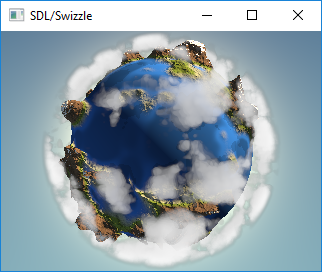
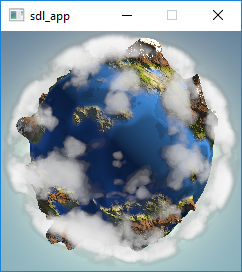
redo the benchmarks

diff --git a/docs/shaderbox/index.html b/docs/shaderbox/index.html
@@ -39,7 +39,7 @@ Compute</p></div></section>
 <section id="other_advantages"><h2>Other advantages</h2><table class="tableblock frame-all grid-all" style="width:100%"><colgroup><col style="width:50%"><col style="width:50%"></colgroup><tbody><tr><td class="tableblock halign-left valign-top"><div><div class="ulist"><ul><li><p>Debug / Decompile algorithms from</p><div class="ulist"><ul><li><p><a href="http://www.shadertoy.com">shadertoy.com</a></p></li><li><p><a href="http://www.glslsandbox.com">glslsandbox.com</a></p></li></ul></div></li><li><p>Unit Test shaders!</p></li><li><p>Quick prototype</p></li></ul></div></div></td><td class="tableblock halign-left valign-top"><div><div class="paragraph"><p><span class="image"><img src="img/motivation/shadertoy.png" alt="shadertoy"></span></p></div></div></td></tr></table></section>
 <section id="shading_languages"><h2>Shading Languages</h2></section>
 <section id="pixar_renderman_language" data-background-image="img/intro/renderman.jpg" data-state="RSL"><h2>Pixar RenderMan Language</h2>
-<div class="listingblock strech"><div class="content"><pre class="highlight"><code data-noescape class="javascript language-javascript">/*
+<div class="listingblock"><div class="content"><pre class="highlight"><code data-noescape class="javascript language-javascript">/*
  * red mesh                   red shaded mesh
  */
 surface basic() {             surface simple(color myOpacity = 1) {
@@ -67,15 +67,8 @@ void main(void)
     float4 ambient = { 0.1, 0.0, 0.0, 1.0 };
     return ambient + diffuse * saturate(dot(Light, Norm));
 }</code></pre></div></div></section>
-<section id="glsl_vs_hlsl_general"><h2>GLSL vs HLSL: general</h2><table class="tableblock frame-all grid-all" style="width:100%"><colgroup><col style="width:50%"><col style="width:50%"></colgroup><tbody><tr><td class="tableblock halign-left valign-top"><p class="tableblock">Procedural, step-centric (C like)</p></td><td class="tableblock halign-left valign-top"><p class="tableblock">Object oriented, data-centric (C++ like)</p></td></tr><tr><td class="tableblock halign-left valign-top"><p class="tableblock">Compilation done in driver</p></td><td class="tableblock halign-left valign-top"><p class="tableblock">Client side compilation</p></td></tr><tr><td class="tableblock halign-left valign-top"><p class="tableblock"><code>float</code>, <code>int</code>, <code>bool</code></p></td><td class="tableblock halign-left valign-top"><p class="tableblock"><code>float</code>, <code>int</code>, <code>bool</code>, <code>uint</code>, <code>double</code></p></td></tr></table></section>
-<section id="glsl_vs_hlsl_types"><h2>GLSL vs HLSL: types</h2><table class="tableblock frame-all grid-all" style="width:100%"><colgroup><col style="width:50%"><col style="width:50%"></colgroup><tbody><tr><td class="tableblock halign-left valign-top"><p class="tableblock">Vector type: <code>vec2</code>, <code>vec3</code>, <code>vec4</code></p></td><td class="tableblock halign-left valign-top"><p class="tableblock">Vector type: <code>float2</code>, <code>float3</code>, <code>float4</code></p></td></tr><tr><td class="tableblock halign-left valign-top"><p class="tableblock">Matrix type: <code>mat2</code>, <code>mat3</code>, <code>mat4</code></p></td><td class="tableblock halign-left valign-top"><p class="tableblock">Matrix type: <code>float2x2</code>, <code>float3x3</code>, <code>float4x4</code></p></td></tr><tr><td class="tableblock halign-center valign-top" colspan="2"><p class="tableblock">&#8230;&#8203;textures, samplers, precision modifiers etc</p></td></tr></table></section>
-<section id="shading_languages_future"><h2>Shading Languages Future</h2><div class="paragraph"><p>Basically C++ (usually via LLVM)</p></div>
-<div class="ulist step"><ul><li class="fragment"><p>Metal Shading Language (C++14, Apple)</p><div class="ulist"><ul><li><p>only on iOS devices</p></li></ul></div></li><li class="fragment"><p>CUDA Heterogeneous Computing (C++11, NVidia)</p><div class="ulist"><ul><li><p>only for computing, not graphics</p></li></ul></div></li><li class="fragment"><p>HLSL 6.x (C++98&#8217;ish, Microsoft)</p><div class="ulist"><ul><li><p>not released yet</p></li></ul></div></li></ul></div></section>
-<section><div class="paragraph"><p>Let&#8217;s see how C++ can help out, NOW!</p></div></section>
-<section id="the_plan" data-state="plan"><h2>The Plan</h2><div class="ulist"><ul><li class="fragment"><p><span class="image"><img src="img/icon/browser.svg" alt="cpp" width="64" height="64"></span> Pick a shading language and twist C++ to accept it as source code!</p></li><li class="fragment"><p><span class="image"><img src="img/icon/management.svg" alt="bonus" width="64" height="64"></span> BONUS: use the preprocessor for transcription back to the original language(s)!</p></li></ul></div></section>
-<section id="the_plan_cont"><h2>The Plan (cont.)</h2><div class="ulist"><ul><li class="fragment"><p>obligatory preprocessor layer</p></li><li class="fragment"><p>vector (linear algebra) types</p><div class="ulist"><ul><li><p>swizzle support</p></li></ul></div></li><li class="fragment"><p>matrix types</p></li><li class="fragment"><p>operators</p></li><li class="fragment"><p>"standard library" utility/math functions</p></li></ul></div></section>
-<section id="place_your_bets"><h2>Place Your Bets</h2><div class="paragraph"><p>We will chose <strong>GLSL</strong> as it&#8217;s used on <em>desktop</em>, <em>web</em> and <em>mobile</em></p></div>
-<div class="admonitionblock warning"><table><tr><td class="icon"><i class="fa fa-warning" title="Warning"></i></td><td class="content">only a subset of it - concentrate on procedural graphics thus minimize/eliminate inputs (textures, vertex data, etc)</td></tr></table></div></section>
+<section id="glsl_vs_hlsl_general"><h2>GLSL vs HLSL: General</h2><table class="tableblock frame-all grid-all" style="width:100%"><colgroup><col style="width:50%"><col style="width:50%"></colgroup><tbody><tr><td class="tableblock halign-left valign-top"><p class="tableblock">Procedural, step-centric (C like)</p></td><td class="tableblock halign-left valign-top"><p class="tableblock">Object oriented, data-centric (C++ like)</p></td></tr><tr><td class="tableblock halign-left valign-top"><p class="tableblock">Compilation done in driver</p></td><td class="tableblock halign-left valign-top"><p class="tableblock">Client side compilation</p></td></tr><tr><td class="tableblock halign-left valign-top"><p class="tableblock"><code>float</code>, <code>int</code>, <code>bool</code></p></td><td class="tableblock halign-left valign-top"><p class="tableblock"><code>float</code>, <code>int</code>, <code>bool</code>, <code>uint</code>, <code>double</code></p></td></tr></table></section>
+<section id="glsl_vs_hlsl_types"><h2>GLSL vs HLSL: Types</h2><table class="tableblock frame-all grid-all" style="width:100%"><colgroup><col style="width:50%"><col style="width:50%"></colgroup><tbody><tr><td class="tableblock halign-left valign-top"><p class="tableblock">Vector type: <code>vec2</code>, <code>vec3</code>, <code>vec4</code></p></td><td class="tableblock halign-left valign-top"><p class="tableblock">Vector type: <code>float2</code>, <code>float3</code>, <code>float4</code></p></td></tr><tr><td class="tableblock halign-left valign-top"><p class="tableblock">Matrix type: <code>mat2</code>, <code>mat3</code>, <code>mat4</code></p></td><td class="tableblock halign-left valign-top"><p class="tableblock">Matrix type: <code>float2x2</code>, <code>float3x3</code>, <code>float4x4</code></p></td></tr><tr><td class="tableblock halign-center valign-top" colspan="2"><p class="tableblock">&#8230;&#8203;textures, samplers, precision modifiers etc</p></td></tr></table></section>
 <section id="languages_declarations"><h2>Languages: Declarations</h2><table class="tableblock frame-all grid-all" style="width:100%"><colgroup><col style="width:33.3333%"><col style="width:33.3333%"><col style="width:33.3334%"></colgroup><tbody><tr><td class="tableblock halign-left valign-top"><p class="tableblock">GLSL</p></td><td class="tableblock halign-left valign-top"><p class="tableblock">HLSL</p></td><td class="tableblock halign-left valign-top"><p class="tableblock">C++</p></td></tr><tr><td class="tableblock halign-center valign-top" colspan="3"><p class="tableblock">&#160;&#160;&#160;&#160;&#160;&#160;&#160;&#160;&#160;&#160;&#160;&#160;&#160;&#160;&#160;&#160;&#160;&#160;&#160;&#160;&#160;&#160;&#160;&#160;&#160;&#160;&#160;
 C-style types and arrays</p></td></tr><tr><td class="tableblock halign-center valign-top" colspan="3"><p class="tableblock">&#160;&#160;&#160;&#160;&#160;&#160;&#160;&#160;&#160;&#160;&#160;&#160;&#160;&#160;&#160;&#160;&#160;&#160;&#160;&#160;&#160;&#160;&#160;&#160;&#160;&#160;&#160;&#160;&#160;&#160;&#160;&#160;&#160;&#160;
 C-style <code>struct</code></p></td></tr><tr><td class="tableblock halign-left valign-top"><p class="tableblock"><code>T name = T ( &#8230;&#8203; )</code></p></td><td class="tableblock halign-left valign-top"><p class="tableblock"><code>T name = { &#8230;&#8203; }</code></p></td><td class="tableblock halign-left valign-top"><p class="tableblock">both (preproc abstraction)</p></td></tr></table></section>
@@ -86,9 +79,8 @@ vec2 texcoord1, texcoord2;
 vec3 position;
 vec4 myRGBA;
 ivec2 textureLookup;
-bvec3 less;
-
-// matrices are floating point only
+bvec3 less;</code></pre></div></div>
+<div class="listingblock"><div class="content"><pre class="highlight"><code data-noescape class="cpp language-cpp">// matrices are floating point only
 mat2 mat2D;
 mat3 optMatrix;
 mat4 view, projection;</code></pre></div></div></section>
@@ -121,7 +113,13 @@ u.y = dot(v, m[1]);
 u.z = dot(v, m[2]);
 /* dot(a,b) is the inner product of a and b */</code></pre></div></div></div></td></tr></table></section>
 <section id="standard_library" data-state="STL"><h2>"Standard Library"</h2><table class="tableblock frame-all grid-all" style="width:100%"><colgroup><col style="width:50%"><col style="width:50%"></colgroup><tbody><tr><td class="tableblock halign-left valign-top"><p class="tableblock">Math</p></td><td class="tableblock halign-left valign-top"><p class="tableblock"><code>sin</code>, <code>cos</code>, <code>radians</code>, <code>pow</code>, <code>exp</code>, etc</p></td></tr><tr><td class="tableblock halign-left valign-top"><p class="tableblock">Common</p></td><td class="tableblock halign-left valign-top"><p class="tableblock"><code>abs</code>, <code>sign</code>, <code>floor</code>, <code>mod</code>, <code>min</code>, etc</p></td></tr><tr><td class="tableblock halign-left valign-top"><p class="tableblock">Utility</p></td><td class="tableblock halign-left valign-top"><p class="tableblock"><code>mix</code>, <code>step</code>, <code>smoothstep</code>, etc</p></td></tr><tr><td class="tableblock halign-left valign-top"><p class="tableblock">Geometry</p></td><td class="tableblock halign-left valign-top"><p class="tableblock"><code>length</code>, <code>dot</code>, <code>cross</code>, <code>distance</code>, etc</p></td></tr><tr><td class="tableblock halign-left valign-top" colspan="2"><p class="tableblock">Specific texture and image sampling &#8230;&#8203;</p></td></tr></table></section>
-<section><div class="paragraph"><p>Recreating all this in C++ &#8230;&#8203;</p></div></section>
+<section id="shading_languages_future"><h2>Shading Languages Future</h2><div class="paragraph"><p>Basically C++ (usually via LLVM)</p></div>
+<div class="ulist step"><ul><li class="fragment"><p>Metal Shading Language (C++14, Apple)</p><div class="ulist"><ul><li><p>only on iOS devices</p></li></ul></div></li><li class="fragment"><p>CUDA Heterogeneous Computing (C++11, NVidia)</p><div class="ulist"><ul><li><p>only for computing, not graphics</p></li></ul></div></li><li class="fragment"><p>HLSL 6.x (C++98&#8217;ish, Microsoft)</p><div class="ulist"><ul><li><p>not released yet</p></li></ul></div></li></ul></div></section>
+<section><div class="paragraph"><p>Let&#8217;s see how C++ can help out, NOW!</p></div></section>
+<section id="the_plan" data-state="plan"><h2>The Plan</h2><div class="ulist"><ul><li class="fragment"><p><span class="image"><img src="img/icon/browser.svg" alt="cpp" width="64" height="64"></span> Pick a shading language and twist C++ to accept it as source code!</p></li><li class="fragment"><p><span class="image"><img src="img/icon/management.svg" alt="bonus" width="64" height="64"></span> BONUS: use the preprocessor for transcription back to the original language(s)!</p></li></ul></div></section>
+<section id="the_plan_cont"><h2>The Plan (cont.)</h2><div class="ulist"><ul><li class="fragment"><p>obligatory preprocessor layer</p></li><li class="fragment"><p>vector (linear algebra) types</p><div class="ulist"><ul><li><p>swizzle support</p></li></ul></div></li><li class="fragment"><p>matrix types</p></li><li class="fragment"><p>operators</p></li><li class="fragment"><p>"standard library" utility/math functions</p></li></ul></div></section>
+<section id="place_your_bets"><h2>Place Your Bets</h2><div class="paragraph"><p>We will chose <strong>GLSL</strong> as it&#8217;s used on <em>desktop</em>, <em>web</em> and <em>mobile</em></p></div>
+<div class="admonitionblock warning"><table><tr><td class="icon"><i class="fa fa-warning" title="Warning"></i></td><td class="content">only a subset of it - concentrate on procedural graphics thus minimize/eliminate inputs (textures, vertex data, etc)</td></tr></table></div></section>
 <section id="design_of_code_vector_code" data-state="no_list_decor"><h2>Design of <code>vector&lt;&gt;</code></h2><div class="ulist"><ul><li class="fragment"><p></p><div class="listingblock"><div class="content"><pre class="highlight"><code data-noescape class="cpp language-cpp">template&lt;typename T, size_t N&gt;
 struct vector :
     public vector_base&lt;T, N&gt;
@@ -159,7 +157,7 @@ struct static_for
 struct static_for&lt;N, N&gt;
 {
     template&lt;class Func&gt;
-    constexpr void operator ()(Func&amp;&amp;) { /* empty */ }
+    constexpr void operator ()(Func&amp;&amp;) { /* terminate */ }
 };</code></pre></div></div></li></ul></div></section>
 <section id="code_vector_code_ctor_advanced"><h2><code>vector&lt;&gt;</code> ctor - advanced</h2><div class="listingblock"><div class="content"><pre class="highlight"><code data-noescape class="cpp language-cpp">template&lt;typename A0, typename... Args,</code></pre></div></div>
 <div class="listingblock"><div class="content"><pre class="highlight"><code data-noescape class="cpp language-cpp">    class = typename std::enable_if&lt;
@@ -168,34 +166,35 @@ struct static_for&lt;N, N&gt;
     &gt;::type&gt;</code></pre></div></div>
 <div class="listingblock"><div class="content"><pre class="highlight"><code data-noescape class="cpp language-cpp">explicit vector(A0&amp;&amp; a0, Args&amp;&amp;... args)
 {
-    iterate_construct&lt;0, num_components&gt;(
-        std::forward&lt;A0&gt;(a0), std::forward&lt;Args&gt;(args)...
+    static_recurse&lt;0&gt;(
+        std::forward&lt;A0&gt;(a0),
+        std::forward&lt;Args&gt;(args)...
     );
 }</code></pre></div></div></section>
-<section id="code_vector_code_ctor_advanced_2"><h2><code>vector&lt;&gt;</code> ctor - advanced (2)</h2><div class="listingblock"><div class="content"><pre class="highlight"><code data-noescape class="cpp language-cpp">template&lt;size_t I, size_t IMax, typename Arg0, typename... Args&gt;
-void iterate_construct(Arg0&amp;&amp; a0, Args&amp;&amp;... args)
+<section id="code_vector_code_ctor_advanced_2"><h2><code>vector&lt;&gt;</code> ctor - advanced (2)</h2><div class="listingblock"><div class="content"><pre class="highlight"><code data-noescape class="cpp language-cpp">template&lt;size_t I, typename Arg0, typename... Args&gt;
+void static_recurse(Arg0&amp;&amp; a0, Args&amp;&amp;... args)
 {
-    if constexpr (I &lt; IMax) {
-        construct_at_index(I, std::forward&lt;Arg0&gt;(a0));
-        iterate_construct&lt;I + get_size&lt;Arg0&gt;(), IMax&gt;(
-            std::forward&lt;Args&gt;(args)...);
-    }
+    construct_at_index&lt;I&gt;(std::forward&lt;Arg0&gt;(a0));
+
+    static_recurse&lt;I + detail::get_size&lt;Arg0&gt;()&gt;(
+        std::forward&lt;Args&gt;(args)...
+    );
 }</code></pre></div></div>
-<div class="listingblock"><div class="content"><pre class="highlight"><code data-noescape class="cpp language-cpp">template&lt;size_t I, size_t IMax&gt;
-void iterate_construct()
+<div class="listingblock"><div class="content"><pre class="highlight"><code data-noescape class="cpp language-cpp">template&lt;size_t I&gt;
+void static_recurse()
+{ /* terminate */ }</code></pre></div></div></section>
+<section id="code_vector_code_ctor_advanced_3"><h2><code>vector&lt;&gt;</code> ctor - advanced (3)</h2><div class="listingblock"><div class="content"><pre class="highlight"><code data-noescape class="cpp language-cpp">template&lt;size_t i&gt;
+void construct_at_index(scalar_type arg)
 {
-}</code></pre></div></div></section>
-<section id="code_vector_code_ctor_advanced_3"><h2><code>vector&lt;&gt;</code> ctor - advanced (3)</h2><div class="listingblock"><div class="content"><pre class="highlight"><code data-noescape class="cpp language-cpp">void construct_at_index(size_t&amp; i, scalar_type arg)
-{
-    data[i++] = arg;
+    data[i] = arg;
 }</code></pre></div></div>
 <div class="listingblock"><div class="content"><pre class="highlight"><code data-noescape class="cpp language-cpp">template&lt;typename Other, size_t Other_N&gt;
 void construct_at_index(size_t&amp; i, vector&lt;Other, Other_N&gt;&amp;&amp; arg)
 {
-    constexpr auto count = std::min(N, Other_N);
+    constexpr auto count = std::min(i + Other_N, num_components);
 
-    detail::static_for&lt;0, count&gt;()([&amp;](size_t j) {
-        data[i++] = arg.data[j];
+    static_for&lt;i, count&gt;()([&amp;](size_t j) {
+        data[j] = arg.data[j - i];
     });
 }</code></pre></div></div></section>
 <section id="code_vector_code_ctor_in_action"><h2><code>vector&lt;&gt;</code> ctor in action</h2><div class="listingblock"><div class="content"><pre class="highlight"><code data-noescape class="cpp language-cpp">using vec2 = vector&lt;int, 2&gt;;
@@ -337,9 +336,9 @@ struct vector_base&lt;T, 4&gt;
 <div class="listingblock"><div class="content"><pre class="highlight"><code data-noescape class="cpp language-cpp">template&lt;class vector_type, class T, size_t N, size_t... indices&gt;
 struct swizzler
 {
-    T data[N]; // can differ from vector_type
-...
-};</code></pre></div></div></section>
+    T data[N];
+
+(etc)</code></pre></div></div></section>
 <section id="swizzle_for_code_vector_t_3_code"><h2>Swizzle for <code>vector&lt;T, 3&gt;</code></h2><div class="listingblock"><div class="content"><pre class="highlight"><code data-noescape class="cpp language-cpp">union
 {
     T data[3];
@@ -464,7 +463,7 @@ float n = dot(v.xzx, v.zyx);</code></pre></div></div>
 <div class="listingblock"><div class="content"><pre class="highlight"><code data-noescape class="asm language-asm">&gt; 'dot': no matching overloaded function found
 &gt; could not deduce template argument</code></pre></div></div></section>
 <section><div class="admonitionblock note"><table><tr><td class="icon"><i class="fa fa-info-circle" title="Note"></i></td><td class="content">Type deduction does not consider implicit conversions!</td></tr></table></div>
-<div class="ulist"><div class="title">Possible fixes</div><ul><li class="fragment"><p></p><div class="listingblock"><div class="content"><pre class="highlight"><code data-noescape class="cpp language-cpp">float n = dot&lt;float, 0, 1, 2&gt;(v.xzx, v.zyx);</code></pre></div></div></li><li class="fragment"><p>create by hand all scalar/size combinations :(</p></li><li class="fragment"><p>duplicate functions for swizzler proxy as well :|</p></li><li class="fragment"><p>SFINAE tricks</p></li></ul></div></section>
+<div class="ulist"><ul><li class="fragment"><p>Possible fixes:</p></li><li class="fragment"><p></p><div class="listingblock"><div class="content"><pre class="highlight"><code data-noescape class="cpp language-cpp">float n = dot&lt;float, 0, 1, 2&gt;(v.xzx, v.zyx);</code></pre></div></div></li><li class="fragment"><p>create by hand all scalar/size combinations :(</p></li><li class="fragment"><p>SFINAE tricks</p></li></ul></div></section>
 <section id="a_better_fix" data-state="no_list_decor"><h2>A better fix</h2><div class="admonitionblock note"><table><tr><td class="icon"><i class="fa fa-info-circle" title="Note"></i></td><td class="content">we place the functions in a non-deduced context: inside <code>vector&lt;&gt;</code> itself!</td></tr></table></div>
 <div class="ulist"><ul><li class="fragment"><p></p><div class="listingblock"><div class="content"><pre class="highlight"><code data-noescape class="cpp language-cpp">template&lt;typename T, size_t... Ns&gt;
 struct vector
@@ -475,15 +474,15 @@ struct vector
         /* inline friend found via ADL */
     }
     ...</code></pre></div></div></li></ul></div></section>
-<section id="enough"><h2>Enough?</h2><div class="admonitionblock warning"><table><tr><td class="icon"><i class="fa fa-warning" title="Warning"></i></td><td class="content">No!</td></tr></table></div>
-<div class="ulist"><ul><li class="fragment"><p></p><div class="listingblock"><div class="title">lots of function need to work with scalars only</div><div class="content"><pre class="highlight"><code data-noescape class="cpp language-cpp">float opS(float d1, float d2)
+<section id="are_we_done" data-state="no_list_decor"><h2>Are we done?</h2><div class="admonitionblock warning"><table><tr><td class="icon"><i class="fa fa-warning" title="Warning"></i></td><td class="content">No!</td></tr></table></div>
+<div class="ulist"><ul><li class="fragment"><p></p><div class="listingblock"><div class="title">Lots of shader code uses scalar types only:</div><div class="content"><pre class="highlight"><code data-noescape class="cpp language-cpp">float opS(float d1, float d2)
 {
-    return max(-d2, d1);
-}</code></pre></div></div></li><li class="fragment"><p></p><div class="listingblock"><div class="title">ambiguity with literals</div><div class="content"><pre class="highlight"><code data-noescape class="cpp language-cpp">smoothstep(0, 1, v.xyz);
+    return max(-d2, d1); // defined only for vectors!
+}</code></pre></div></div></li><li class="fragment"><p></p><div class="listingblock"><div class="title">Ambiguity with literals:</div><div class="content"><pre class="highlight"><code data-noescape class="cpp language-cpp">smoothstep(0, 1, v.xyz);
 
 // could be `int`, `float` or `double`</code></pre></div></div></li></ul></div></section>
 <section id="solution" data-state="no_list_decor"><h2>Solution</h2><div class="paragraph"><p>Inspect the list of function args and deduct a vector type using <code>std::common_type</code> techniques</p></div>
-<div class="ulist"><ul><li class="fragment"><p></p><div class="listingblock"><div class="title">first: need to make <code>vec1</code> convert to/from scalars</div><div class="content"><pre class="highlight"><code data-noescape class="cpp language-cpp">std::is_convertible&lt;vec1, float&gt;::value == true</code></pre></div></div></li><li class="fragment"><p></p><div class="listingblock"><div class="title">then: write the custom traits</div><div class="content"><pre class="highlight"><code data-noescape class="cpp language-cpp">promote_to_vec&lt; float                &gt;::type == vec1</code></pre></div></div></li><li class="fragment"><p></p><div class="listingblock"><div class="content"><pre class="highlight"><code data-noescape class="cpp language-cpp">promote_to_vec&lt; vec3                 &gt;::type == vec3
+<div class="ulist"><ul><li class="fragment"><p></p><div class="listingblock"><div class="title">First: need to make <code>vec1</code> convert to/from scalars</div><div class="content"><pre class="highlight"><code data-noescape class="cpp language-cpp">std::is_convertible&lt;vec1, float&gt;::value == true</code></pre></div></div></li><li class="fragment"><p></p><div class="listingblock"><div class="title">Then: provide custom type traits</div><div class="content"><pre class="highlight"><code data-noescape class="cpp language-cpp">promote_to_vec&lt; float                &gt;::type == vec1</code></pre></div></div></li><li class="fragment"><p></p><div class="listingblock"><div class="content"><pre class="highlight"><code data-noescape class="cpp language-cpp">promote_to_vec&lt; vec3                 &gt;::type == vec3
 promote_to_vec&lt; decltype(vec3().xyz) &gt;::type == vec3</code></pre></div></div></li><li class="fragment"><p></p><div class="listingblock"><div class="content"><pre class="highlight"><code data-noescape class="cpp language-cpp">promote_to_vec&lt; vec3, float          &gt;::type == vec3
 promote_to_vec&lt; vec3, float, double  &gt;::type == vec3</code></pre></div></div></li></ul></div></section>
 <section id="solution_cont"><h2>Solution (cont.)</h2><div class="listingblock"><div class="title">Insted of <code>inline</code> functions are <code>static</code></div><div class="content"><pre class="highlight"><code data-noescape class="cpp language-cpp">template&lt;template&lt;class, size_t...&gt; class vector, class T, size_t...
@@ -501,6 +500,15 @@ inline auto func(Args&amp;&amp;... args) -&gt;
         promote_to_vec&lt;Args...&gt;::type::
         func(std::forward&lt;Args&gt;(args)...);
 }</code></pre></div></div></section>
+<section id="solution_demo"><h2>Solution (demo)</h2><div class="listingblock"><div class="content"><pre class="highlight"><code data-noescape class="cpp language-cpp">return max(-d2, d1);
+//      ||
+//      ||
+//      \/
+    promove_to_vec&lt;float, float&gt;
+//      ||
+//      ||
+//      \/
+return vector&lt;float, 0&gt;::max(-d2, d1);</code></pre></div></div></section>
 <section id="the_code_matrix_code_datatype"><h2>the <code>matrix&lt;&gt;</code> datatype</h2><div class="paragraph"><p>Now that we have <code>vector&lt;&gt;</code> a matrix is more straightforward</p></div>
 <div class="admonitionblock note"><table><tr><td class="icon"><i class="fa fa-info-circle" title="Note"></i></td><td class="content">two dimensional &#8594; introduce helper type for the indices</td></tr></table></div>
 <div class="listingblock"><div class="content"><pre class="highlight"><code data-noescape class="cpp language-cpp">template&lt;size_t...&gt;
@@ -535,8 +543,9 @@ explicit matrix(Args&amp;&amp;... args)
         detail::decay(std::forward&lt;Args&gt;(args))), ...);
 }</code></pre></div></div></section>
 <section id="the_code_matrix_code_ops_and_funcs"><h2>the <code>matrix&lt;&gt;</code> ops and funcs</h2><div class="ulist"><ul><li><p>can recycle the same binary operators as vector if written generic</p></li><li><p>except <em>multiplication</em></p><div class="ulist"><ul><li><p>which needs to be handled differently</p></li><li><p>for all variations of <code>matrix</code>, <code>row_type</code>, <code>column_type</code></p></li></ul></div></li></ul></div></section>
-<section id="prior_art"><h2>Prior Art</h2><div class="admonitionblock tip"><table><tr><td class="icon"><i class="fa fa-lightbulb-o" title="Tip"></i></td><td class="content">not invented here :)</td></tr></table></div>
-<div class="ulist"><ul><li class="fragment"><p>clang vector extensions</p><div class="ulist"><ul><li><p></p><div class="listingblock"><div class="content"><pre class="highlight"><code data-noescape class="cpp language-cpp">typedef float vec3 __attribute__((ext_vector_type(3)));</code></pre></div></div></li><li><p>very limited in initializations, but support full swizzling</p></li></ul></div></li><li class="fragment"><p>various libraries</p><div class="ulist"><ul><li><p>GLM - <code>.xyz()</code> style only</p></li><li><p>CXXSwizzle - full spec but slow debug</p></li></ul></div></li></ul></div></section>
+<section id="prior_art"><h2>Prior Art</h2><div class="admonitionblock tip"><table><tr><td class="icon"><i class="fa fa-lightbulb-o" title="Tip"></i></td><td class="content">not invented here :)</td></tr></table></div></section>
+<section><div class="ulist"><ul><li><p>clang vector extensions</p><div class="ulist"><ul><li><p></p><div class="listingblock"><div class="content"><pre class="highlight"><code data-noescape class="cpp language-cpp">typedef float vec3 __attribute__((ext_vector_type(3)));</code></pre></div></div></li><li><p>PRO: supports full swizzling</p></li><li><p>CON: very limited in initializations</p></li></ul></div></li></ul></div></section>
+<section><div class="ulist"><ul><li><p>3rd party libraries</p><div class="ulist"><ul><li><p>GLM</p><div class="ulist"><ul><li><p><code>.xyz()</code> style only</p></li><li><p>horrible preprocessor heavy implementation</p></li></ul></div></li><li><p>CXXSwizzle</p><div class="ulist"><ul><li><p>full spec</p></li><li><p>slow debug</p></li></ul></div></li></ul></div></li></ul></div></section>
 <section id="results"><h2>Results</h2></section>
 <section><div class="paragraph"><p>&#8230;&#8203;but first: Crash Course into Procedural Graphics!</p></div>
 <div class="admonitionblock note"><table><tr><td class="icon"><i class="fa fa-info-circle" title="Note"></i></td><td class="content">Courtesy of @ReinderNijhoff <a href="https://www.shadertoy.com/view/4dSfRc" class="bare">https://www.shadertoy.com/view/4dSfRc</a></td></tr></table></div></section>
@@ -550,14 +559,16 @@ explicit matrix(Args&amp;&amp;... args)
 <section id="raymarch_tutorial_step_8" data-background-image="img/tutorial/step_8.png"></section>
 <section id="showcase"><h2>Showcase</h2></section>
 <section id="gpu_desktop_pc"><h2>GPU / desktop PC</h2><div class="ulist"><ul><li><p><a href="https://www.shadertoy.com/user/valentingalea" class="bare">https://www.shadertoy.com/user/valentingalea</a></p></li><li><p>Nvidia GeForce 1060</p></li><li><p>1080p</p></li></ul></div></section>
-<section id="cpu_desktop_pc"><h2>CPU / desktop PC</h2><div class="ulist"><ul><li><p>minimal draw app with <a href="https://www.libsdl.org/" class="bare">https://www.libsdl.org/</a></p></li><li><p>AMD FX 8350 8-core 4.00 GHz</p></li><li><p>Microsoft Visual C++ 15.7.6</p><div class="ulist"><ul><li><p><code>/O2 /Ob2 /fp:fast /fp:except- /arch:SSE2 /openmp</code></p></li></ul></div></li><li><p>320 x 240 px</p></li></ul></div></section>
-<section id="cpu_mobile_phone"><h2>CPU / mobile phone</h2><div class="ulist"><ul><li><p>C4Droid app (<a href="https://play.google.com/store/apps/details?id=com.n0n3m4.droidc" class="bare">https://play.google.com/store/apps/details?id=com.n0n3m4.droidc</a>)</p></li><li><p>Samsung Galaxy S7</p></li><li><p>GCC 7.2.0</p><div class="ulist"><ul><li><p><code>-Ofast -march=native -funroll-loops</code></p></li></ul></div></li><li><p>100 x 100 px</p></li></ul></div></section>
+<section id="cpu_desktop_pc"><h2>CPU / desktop PC</h2><div class="ulist"><ul><li><p>minimal draw app with <a href="https://www.libsdl.org/" class="bare">https://www.libsdl.org/</a></p></li><li><p>AMD FX 8350 8-core 4.00 GHz</p></li><li><p>Microsoft Visual C++ 2017</p><div class="ulist"><ul><li><p><code>/O2 /Ob2 /fp:fast /fp:except-</code></p></li></ul></div></li></ul></div></section>
+<section id="cpu_mobile_phone"><h2>CPU / mobile phone</h2><div class="ulist"><ul><li><p>C4Droid app (<a href="https://play.google.com/store/apps/details?id=com.n0n3m4.droidc" class="bare">https://play.google.com/store/apps/details?id=com.n0n3m4.droidc</a>)</p></li><li><p>Samsung Galaxy S7</p></li><li><p>GCC 8.0</p><div class="ulist"><ul><li><p><code>-Ofast -march=native -funroll-loops</code></p></li></ul></div></li></ul></div></section>
+<section id="hello_world_cpu"><h2>Hello World (CPU)</h2><div class="literalblock"><div class="content"><pre>TODO: redo @work</pre></div></div>
+<table class="tableblock frame-all grid-all" style="width:100%"><colgroup><col style="width:33.3333%"><col style="width:33.3333%"><col style="width:33.3334%"></colgroup><tbody><tr><td class="tableblock halign-left valign-top"></td><td class="tableblock halign-left valign-top"><p class="tableblock"><span class="image"><img src="img/showcase/pc_default.png" alt="Default(PC)"></span></p></td><td class="tableblock halign-left valign-top"><p class="tableblock"><span class="image"><img src="img/showcase/droid_default.jpg" alt="Default(Droid)"></span></p></td></tr><tr><td class="tableblock halign-left valign-top"><p class="tableblock">240x240 px</p></td><td class="tableblock halign-left valign-top"><p class="tableblock">85.62 FPS</p></td><td class="tableblock halign-left valign-top"><p class="tableblock">166.77</p></td></tr><tr><td class="tableblock halign-left valign-top"><p class="tableblock">120x120 px</p></td><td class="tableblock halign-left valign-top"><p class="tableblock">100.27 FPS</p></td><td class="tableblock halign-left valign-top"><p class="tableblock">468.49</p></td></tr></table></section>
 <section id="planet_gpu" data-background-video="vid/planet.mp4" data-background-video-loop data-background-video-muted></section>
-<section id="planet_cpu"><h2>Planet (CPU)</h2><table class="tableblock frame-all grid-all" style="width:100%"><colgroup><col style="width:50%"><col style="width:50%"></colgroup><tbody><tr><td class="tableblock halign-left valign-top"><p class="tableblock"><span class="image"><img src="img/showcase/pc_planet.png" alt="Planet(PC)"></span></p></td><td class="tableblock halign-left valign-top"><p class="tableblock"><span class="image"><img src="img/showcase/droid_planet.jpg" alt="Planet(Droid)" width="300" height="300"></span></p></td></tr><tr><td class="tableblock halign-left valign-top"><p class="tableblock">Desktop PC</p></td><td class="tableblock halign-left valign-top"><p class="tableblock">Mobile Phone</p></td></tr><tr><td class="tableblock halign-left valign-top"><p class="tableblock">.1 FPS :(</p></td><td class="tableblock halign-left valign-top"><p class="tableblock">5 FPS</p></td></tr></table></section>
+<section id="planet_cpu"><h2>Planet (CPU)</h2><table class="tableblock frame-all grid-all" style="width:100%"><colgroup><col style="width:33.3333%"><col style="width:33.3333%"><col style="width:33.3334%"></colgroup><tbody><tr><td class="tableblock halign-left valign-top"></td><td class="tableblock halign-left valign-top"><p class="tableblock"><span class="image"><img src="img/showcase/pc_planet.png" alt="Planet(PC)"></span></p></td><td class="tableblock halign-left valign-top"><p class="tableblock"><span class="image"><img src="img/showcase/droid_planet.jpg" alt="Planet(Droid)"></span></p></td></tr><tr><td class="tableblock halign-left valign-top"><p class="tableblock">240x240 px</p></td><td class="tableblock halign-left valign-top"><p class="tableblock">1.92 FPS</p></td><td class="tableblock halign-left valign-top"><p class="tableblock">0.83 FPS</p></td></tr><tr><td class="tableblock halign-left valign-top"><p class="tableblock">120x120 px</p></td><td class="tableblock halign-left valign-top"><p class="tableblock">7.30 FPS</p></td><td class="tableblock halign-left valign-top"><p class="tableblock">3.34 FPS</p></td></tr></table></section>
 <section id="clouds_gpu" data-background-video="vid/clouds.mp4" data-background-video-loop data-background-video-muted></section>
-<section id="clouds_cpu"><h2>Clouds (CPU)</h2><table class="tableblock frame-all grid-all" style="width:100%"><colgroup><col style="width:50%"><col style="width:50%"></colgroup><tbody><tr><td class="tableblock halign-left valign-top"><p class="tableblock"><span class="image"><img src="img/showcase/pc_clouds.png" alt="Clouds(PC)"></span></p></td><td class="tableblock halign-left valign-top"><p class="tableblock"><span class="image"><img src="img/showcase/droid_clouds.jpg" alt="Clouds(Droid)" width="300" height="300"></span></p></td></tr><tr><td class="tableblock halign-left valign-top"><p class="tableblock">Desktop PC</p></td><td class="tableblock halign-left valign-top"><p class="tableblock">Mobile Phone</p></td></tr><tr><td class="tableblock halign-left valign-top"><p class="tableblock">1 FPS</p></td><td class="tableblock halign-left valign-top"><p class="tableblock">8 FPS</p></td></tr></table></section>
+<section id="clouds_cpu"><h2>Clouds (CPU)</h2><table class="tableblock frame-all grid-all" style="width:100%"><colgroup><col style="width:33.3333%"><col style="width:33.3333%"><col style="width:33.3334%"></colgroup><tbody><tr><td class="tableblock halign-left valign-top"></td><td class="tableblock halign-left valign-top"><p class="tableblock"><span class="image"><img src="img/showcase/pc_clouds.png" alt="Clouds(PC)"></span></p></td><td class="tableblock halign-left valign-top"><p class="tableblock"><span class="image"><img src="img/showcase/droid_clouds.jpg" alt="Clouds(Droid)"></span></p></td></tr><tr><td class="tableblock halign-left valign-top"><p class="tableblock">240x240 px</p></td><td class="tableblock halign-left valign-top"><p class="tableblock">2.54 FPS</p></td><td class="tableblock halign-left valign-top"><p class="tableblock">2.44 FPS</p></td></tr><tr><td class="tableblock halign-left valign-top"><p class="tableblock">120x120 px</p></td><td class="tableblock halign-left valign-top"><p class="tableblock">9.63 FPS</p></td><td class="tableblock halign-left valign-top"><p class="tableblock">9.64 FPS</p></td></tr></table></section>
 <section id="vinyl_turntable_gpu" data-background-video="vid/vinyl.mp4" data-background-video-loop data-background-video-muted></section>
-<section id="vinyl_turntable_cpu"><h2>Vinyl Turntable (CPU)</h2><table class="tableblock frame-all grid-all" style="width:100%"><colgroup><col style="width:50%"><col style="width:50%"></colgroup><tbody><tr><td class="tableblock halign-left valign-top"><p class="tableblock"><span class="image"><img src="img/showcase/pc_vinyl.png" alt="Vinyl(PC)"></span></p></td><td class="tableblock halign-left valign-top"><p class="tableblock"><span class="image"><img src="img/showcase/droid_vinyl.jpg" alt="Clouds(Droid)" width="300" height="300"></span></p></td></tr><tr><td class="tableblock halign-left valign-top"><p class="tableblock">Desktop PC</p></td><td class="tableblock halign-left valign-top"><p class="tableblock">Mobile Phone</p></td></tr><tr><td class="tableblock halign-left valign-top"><p class="tableblock">1 FPS</p></td><td class="tableblock halign-left valign-top"><p class="tableblock">12 FPS</p></td></tr></table></section>
+<section id="vinyl_turntable_cpu"><h2>Vinyl Turntable (CPU)</h2><table class="tableblock frame-all grid-all" style="width:100%"><colgroup><col style="width:33.3333%"><col style="width:33.3333%"><col style="width:33.3334%"></colgroup><tbody><tr><td class="tableblock halign-left valign-top"></td><td class="tableblock halign-left valign-top"><p class="tableblock"><span class="image"><img src="img/showcase/pc_vinyl.png" alt="Vinyl(PC)"></span></p></td><td class="tableblock halign-left valign-top"><p class="tableblock"><span class="image"><img src="img/showcase/droid_vinyl.jpg" alt="Clouds(Droid)"></span></p></td></tr><tr><td class="tableblock halign-left valign-top"><p class="tableblock">240x240 px</p></td><td class="tableblock halign-left valign-top"><p class="tableblock">8.44 FPS</p></td><td class="tableblock halign-left valign-top"><p class="tableblock">2.94 FPS</p></td></tr><tr><td class="tableblock halign-left valign-top"><p class="tableblock">120x120 px</p></td><td class="tableblock halign-left valign-top"><p class="tableblock">28.11 FPS</p></td><td class="tableblock halign-left valign-top"><p class="tableblock">12.82 FPS</p></td></tr></table></section>
 <section id="the_end" data-background-video="vid/egg.mp4" data-background-video-loop data-background-video-muted><div class="ulist"><ul><li class="fragment"><p><span class="image"><img src="img/icon/twitter.png" alt="Twitter" width="64" height="64"></span> @valentin_galea</p></li><li class="fragment"><p><span class="image"><img src="img/icon/github.png" alt="Github" width="64" height="64"></span> <a href="https://github.com/valentingalea/" class="bare">https://github.com/valentingalea/</a></p></li><li class="fragment"><p><span class="image"><img src="img/sd-brand/SD-logo-white-orange.svg" alt="SD" width="128" height="128"></span> <a href="https://www.splashdamage.com/" class="bare">https://www.splashdamage.com/</a></p></li></ul></div></section>
 <section id="attribution"><h2>Attribution</h2><div class="ulist"><ul><li><p>Piotr Gwiazdowski @gwiazdorrr for original inspiration and help</p></li><li><p>Shading and Renderman: Jaume Sanchez | @thespite</p></li><li><p>Motivation Shaders: Inigo Quilez <a href="https://www.shadertoy.com/view/ld3Gz2" class="bare">https://www.shadertoy.com/view/ld3Gz2</a> <a href="https://www.shadertoy.com/view/ldScDh" class="bare">https://www.shadertoy.com/view/ldScDh</a> <a href="https://www.shadertoy.com/view/4ttSWf" class="bare">https://www.shadertoy.com/view/4ttSWf</a></p></li><li><p>GPU pipeline: <a href="https://open.gl/" class="bare">https://open.gl/</a> (CC BY-SA 4.0)</p></li><li><p>All other images under "Fair Use"/"Fair Dealing"</p></li></ul></div></section></div></div><script src="node_modules/reveal.js/lib/js/head.min.js"></script><script src="node_modules/reveal.js/js/reveal.js"></script><script>// See https://github.com/hakimel/reveal.js#configuration for a full list of configuration options
 Reveal.initialize({
